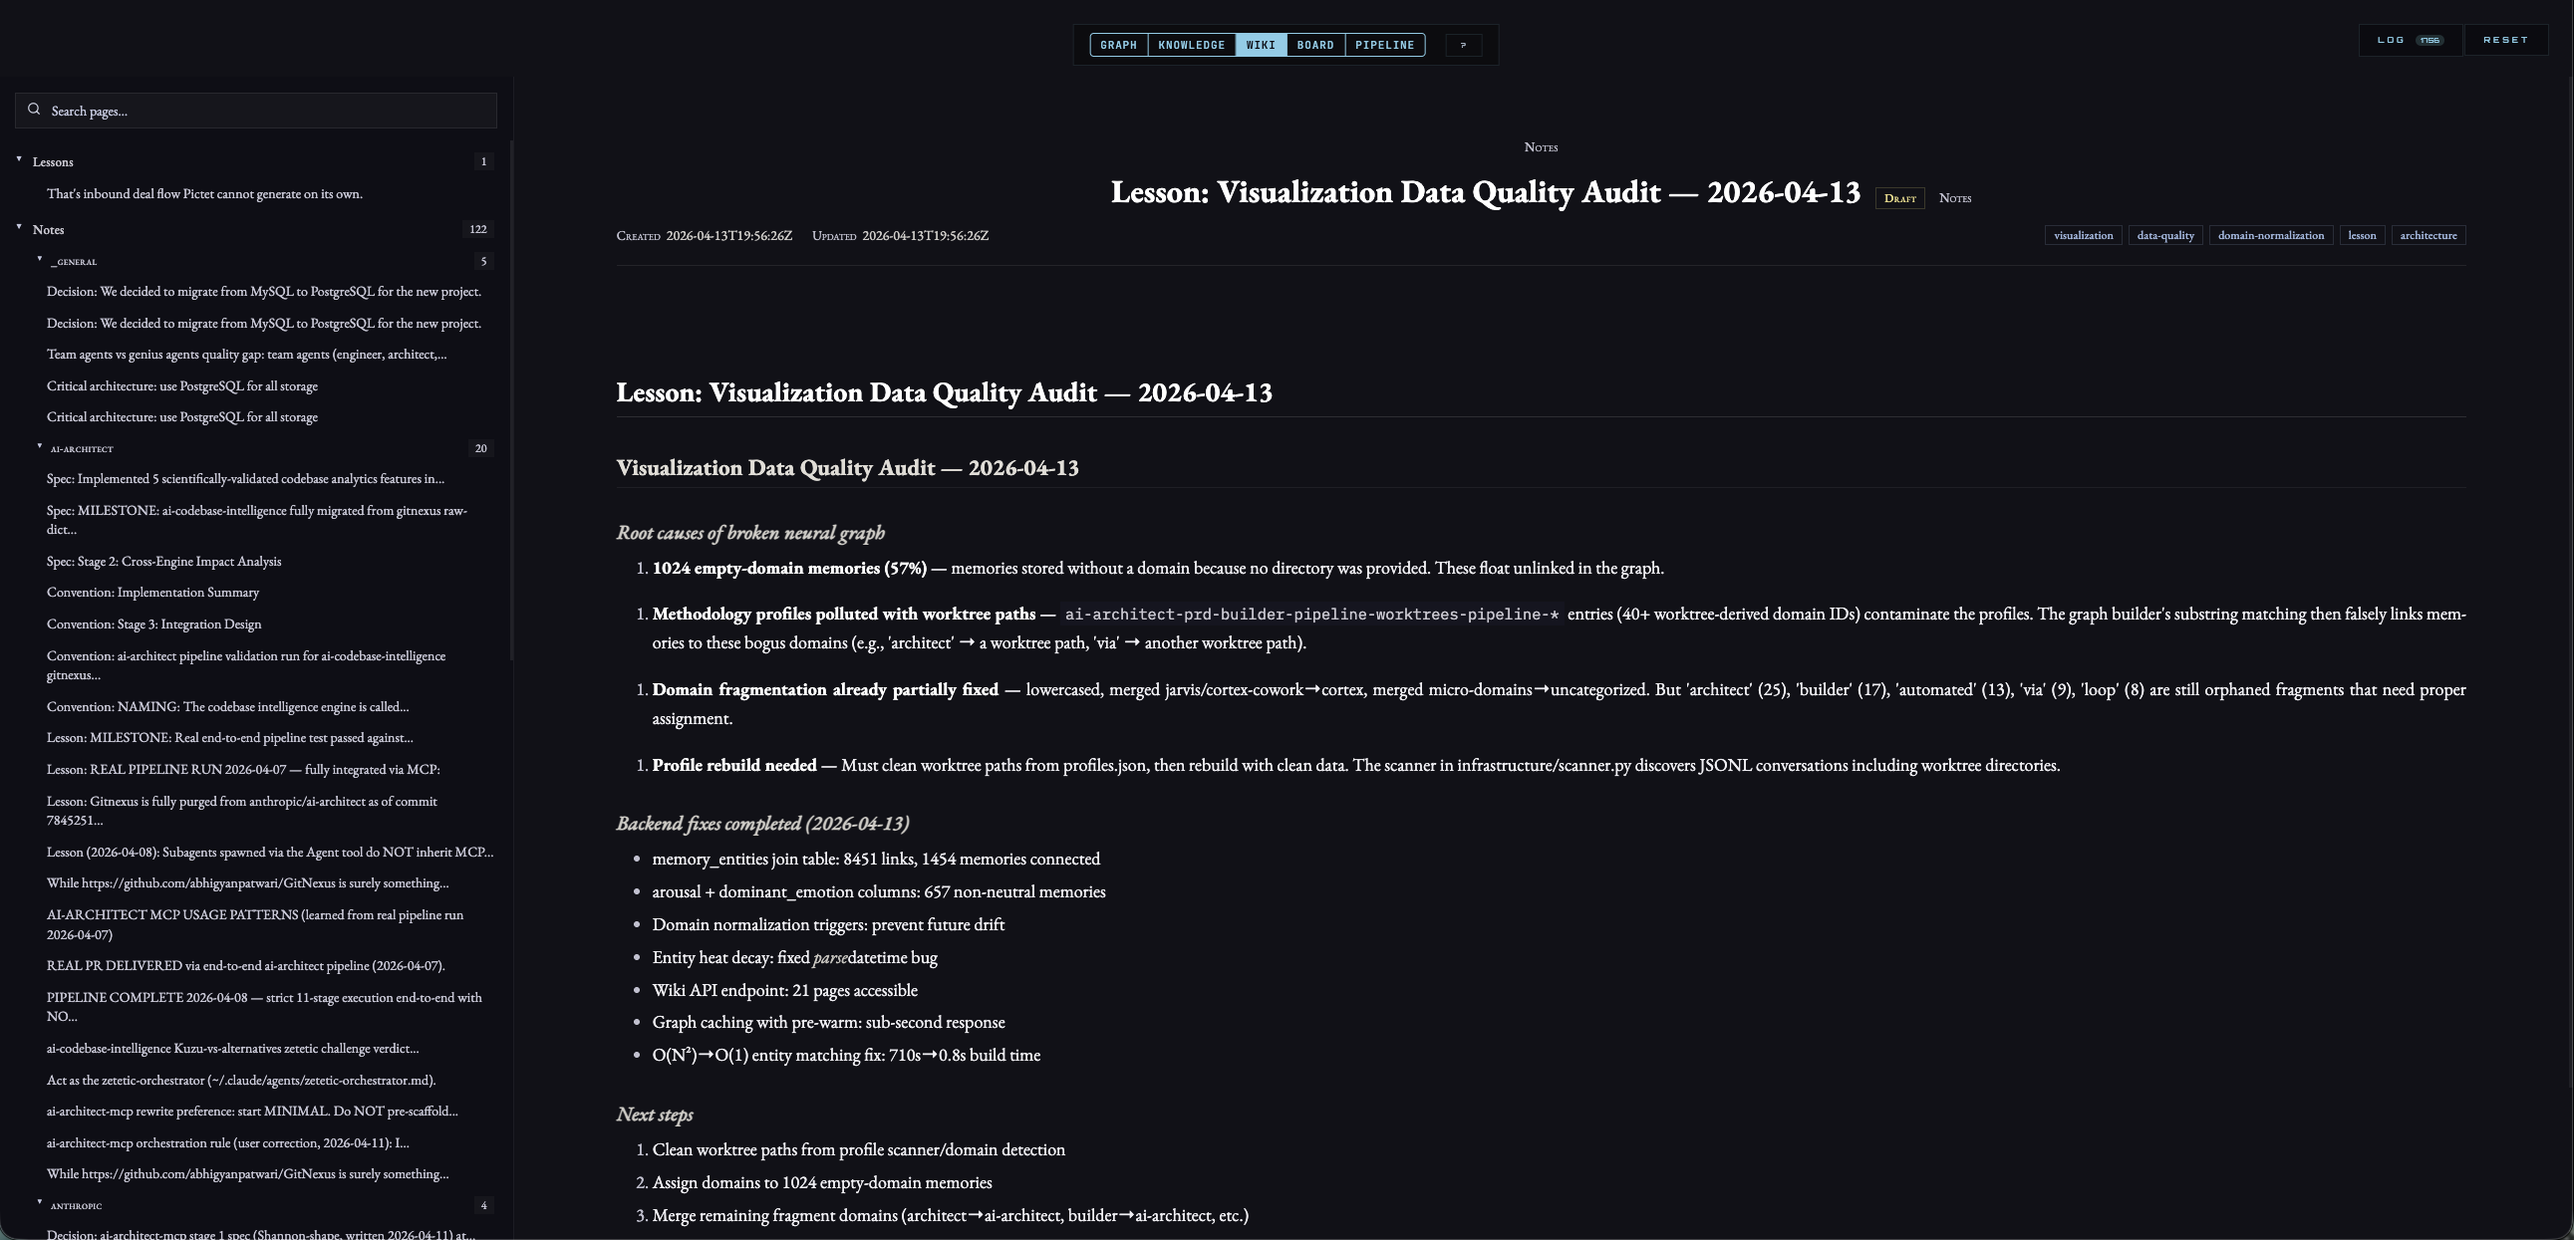
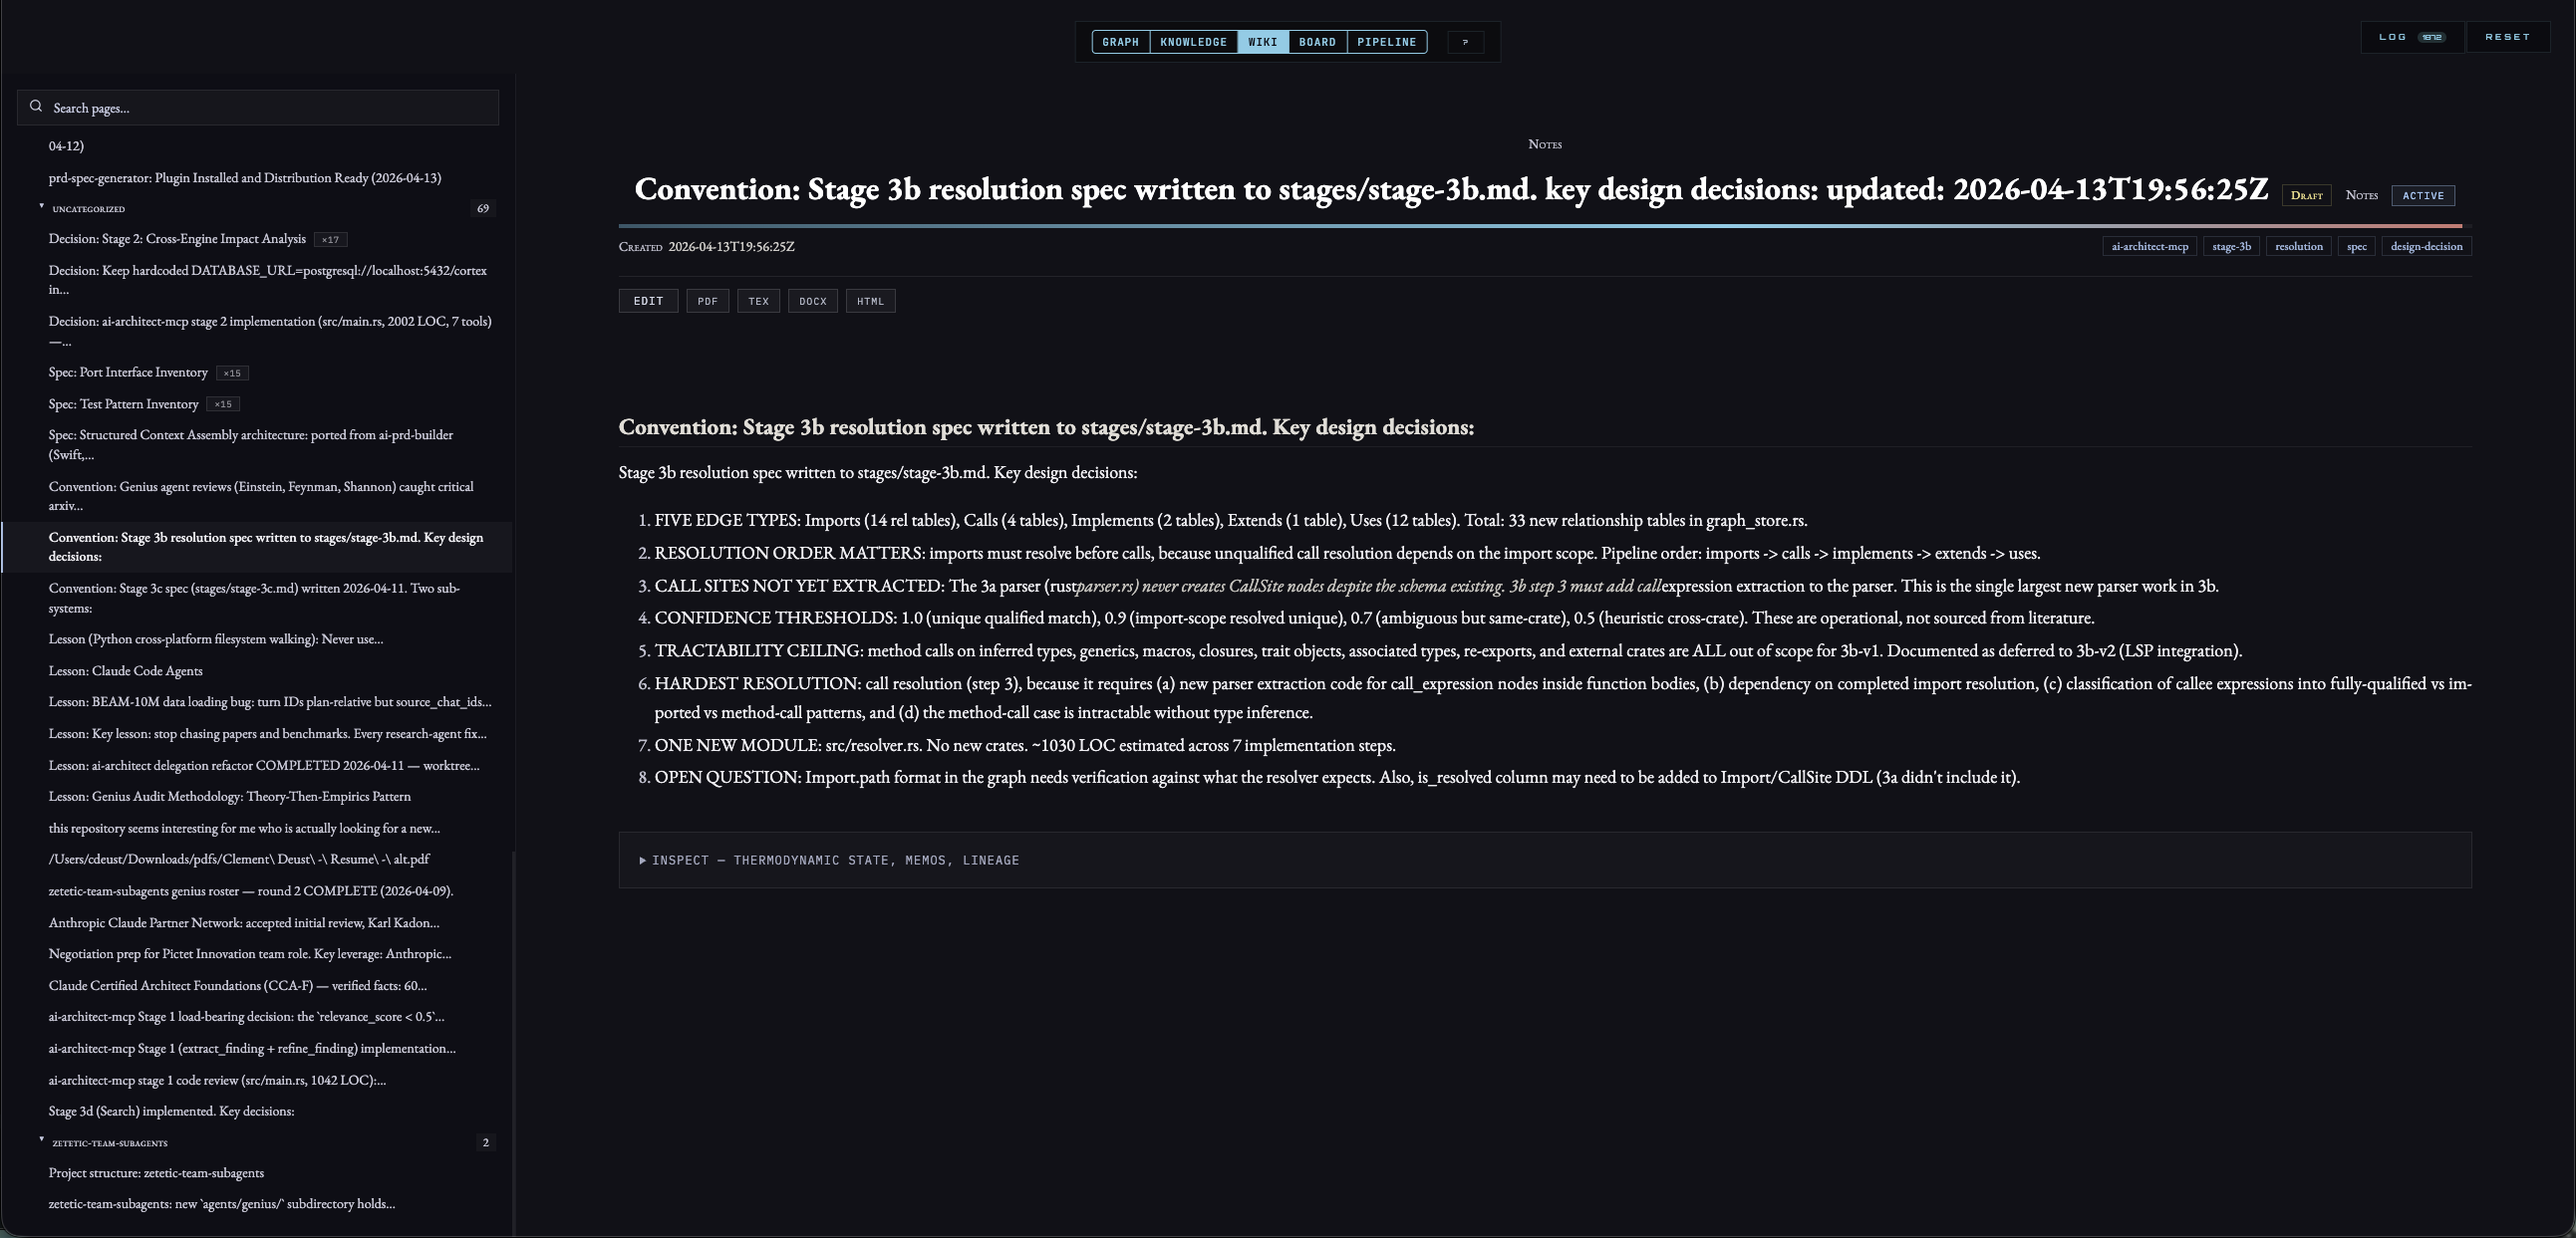
docs: refresh Views → Wiki screenshot with post-edit rendered view
The previous shot was a pre-Phase-8 capture — no Edit/Export buttons,
no lifecycle pill, and content predating the pipeline redesign.
Replaced with a live Convention page (Stage 3b resolution spec)
that was round-tripped through the new CodeMirror editor, so
anyone looking at the README now sees:

- the Edit + PDF/TEX/DOCX/HTML toolbar (Phase 8 + 10)
- lifecycle pill + heat bar (Phase 4)
- numbered section-list content authored in the inline editor

Cache-busting ?v=3 on the <img src> so GitHub's camo proxy picks up
the new file instead of serving the cached old one.

diff --git a/README.md b/README.md
@@ -271,7 +271,7 @@ Launch with `/cortex-visualize`. Five views wired over the same data:
 **Graph View** — force-directed neural graph showing domain clusters, memories, entities, and discussions connected by typed edges. Click any node for full context.
 
 <p align="center">
-<img src="docs/neural-graph-wiki.png" width="100%" alt="Cortex Wiki — LaTeX-styled page with thermodynamic heat bar, lifecycle pill, backlinks, and inspector drawer" />
+<img src="docs/neural-graph-wiki.png?v=3" width="100%" alt="Cortex Wiki — a Convention page rendered with LaTeX typography showing Edit + Export toolbar (PDF/TEX/DOCX/HTML), active lifecycle pill, heat bar, structured numbered sections authored via the in-browser editor" />
 </p>
 
 **Wiki View** — every memory admitted by the grounded-theory pipeline lands here as a structured page (ADR / spec / lesson / convention / note) with:
